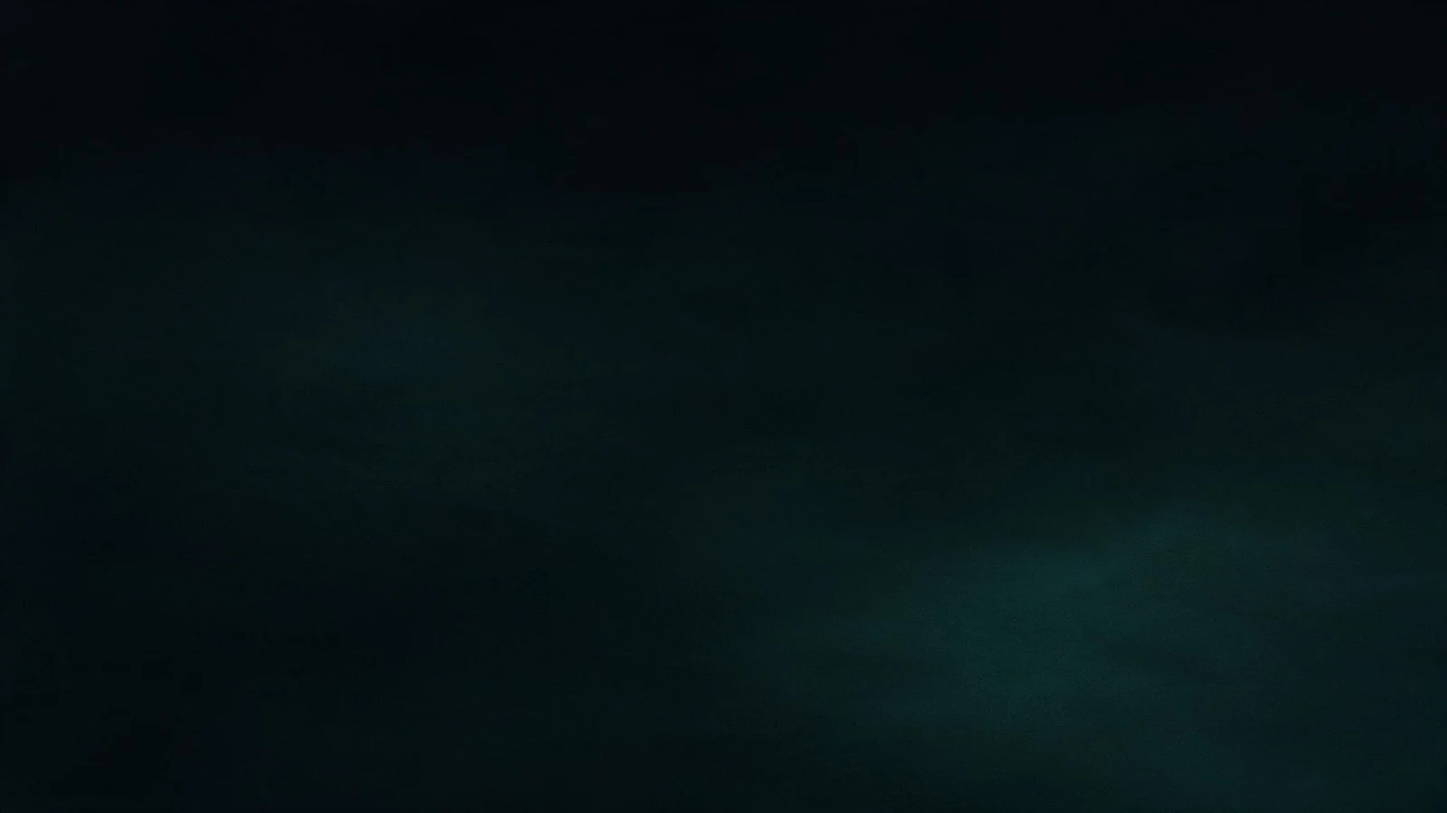
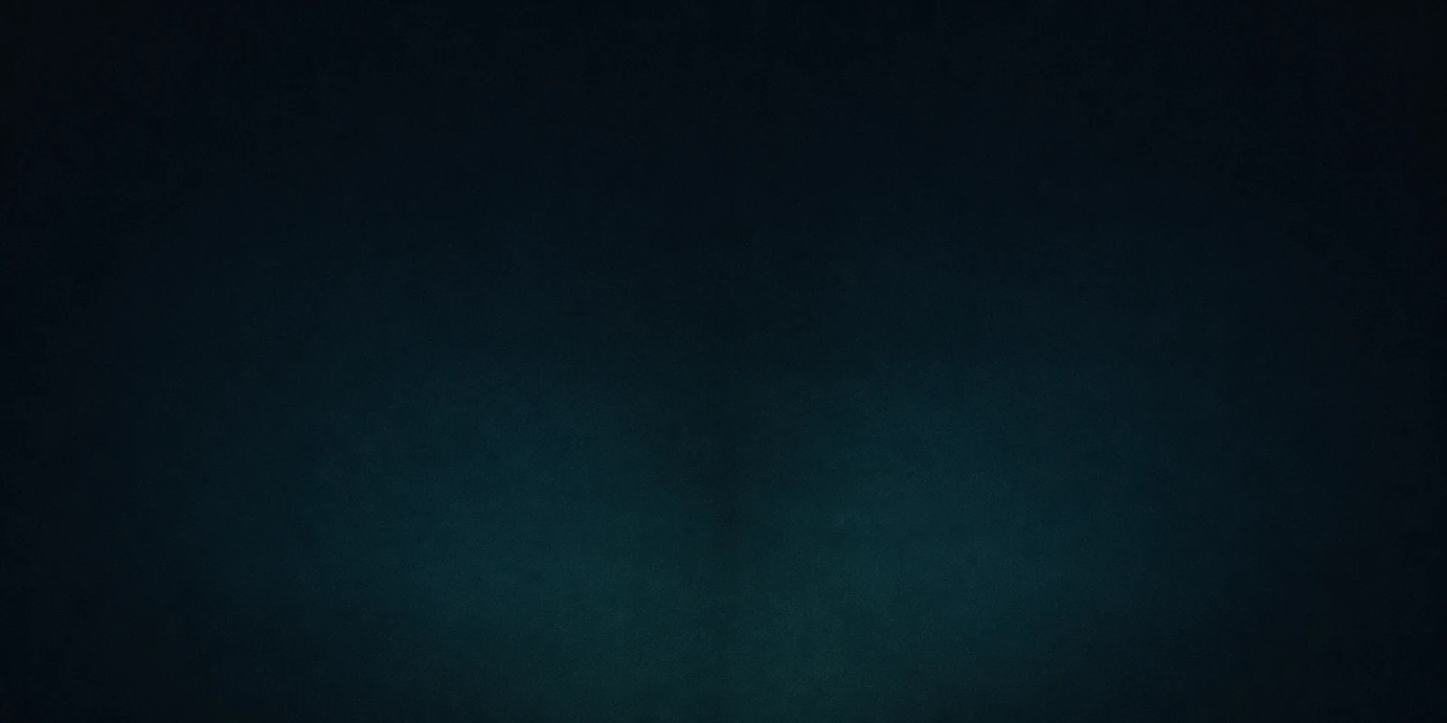
Pricing, second build: a line above the prices, a body and a footer in each card
The founder on the first build: "это ужасно". Three things were wrong. The
shared list was a full-measure white bar under three white cards, which is
the leftover space between two things with a border drawn round it: it is a
line above the prices now, which is also the order a person reads in. The
badge stacked above the yearly price pushed that figure 31px below the two
it is compared with: the card is three rows and two columns now, a price
with its badge beside it. And the growing sentence left 120px of nothing in
the middle of two cards: every card is a body and a footer with a divider
between, and all three dividers land on one line.

The picture was replaced with a symmetrical one. The first pooled its haze
in a corner and, cropped by cover, read as a smudge at the edge rather than
as a decision.

Changed region(s): [[0.2188, 0.625, 0.5938, 1.0], [0.625, 0.5625, 0.6562, 0.625], [0.5625, 0.6875, 0.5938, 0.7188]]

diff --git a/design/kit/landing-plan.html b/design/kit/landing-plan.html
@@ -52,6 +52,7 @@
 
   <section class="kit-sec" id="what">
     <h2>What it is</h2>
+    <p class="note"><b>It was built twice on one day, and the second build is the one to read.</b> The first put the four included things in a full-measure card under the three prices and left the prices as they were. The founder, seeing it: "это ужасно". Three things were wrong and all three are named in Limits: the shared list was a white bar under three white cards holding four short phrases across 1800px, the badge stacked above the yearly price pushed that figure 31px below the two it is compared with, and the growing sentence left 120px of nothing in the middle of two cards. The list is a line above the prices now, the badge sits on the price's own line, and every card is a body and a footer with a divider between.</p>
     <p class="note"><b>Three identical lists is a block admitting that the comparison it is drawn as does not exist.</b> Each of the three cards carried "Everything in Tendd Pro" over History and trends, Advanced alerts, Full cancel guides and Export - the identical four, word for word, twelve list items and twelve ticks for four facts. This is not three plans: it is <b>one plan and three ways to pay for it</b>, which is what D4 locked and what the copy has said all along. The list is lifted out and stated once, under all three, where it belongs to all three. <a href="plan-option.html">The plan option</a> already made half of this argument at stage 07, about colour: twelve petrol ticks smeared the accent until the button stopped being the loudest thing on the screen. The other half is that twelve of anything for four facts is the same mistake in another currency.</p>
     <p class="note"><b>The band was centred in grey and not in colour.</b> <code>_wf.css</code> centres this section, heading, lead and all; the rollout kept the centring for the closing block and lost it here, so a left-aligned heading stood over a centred row of cards with a third of the band empty beside it. That is a desync, not a design, and the grey is the contract.</p>
     <p class="note"><b>And the band was white.</b> It is the one section on the page that asks for money and it stood on the same flat fill as the section above it. The founder, 2026-08-15: "может на фон какую ненавязчивую спокойную картинку сделать". It now carries a wash: a teal haze drifting across paper in the light theme, the same composition at dusk in the dark one.</p>
@@ -69,7 +70,8 @@
   <section class="kit-sec" id="limits">
     <h2>Limits</h2>
     <p class="note"><b>The wash is one band and nowhere else, and that is the whole discipline of it.</b> <code>--wash-pricing</code> is the one non-colour role in <code>tokens.css</code>. It is there rather than in this component for one mechanical reason: system rule 6 says a role lives in both themes or it does not exist, and a paint that reverses between a paper theme and an ink theme is exactly what that rule was written for. The alternative was a <code>[data-theme]</code> selector inside a component file, and there are <b>zero</b> of those in the 68 component files: the point of two token levels is that a component never asks which theme it is in.</p>
-    <p class="note"><b>Its strength is a measurement and not a taste.</b> The smallest ink standing on this band is <code>--text-muted</code> at 14px, so every pixel of the picture has to clear 4.5:1 against it. As generated it did not: the haze pooling low measured <b>2.75:1</b> under the closing line at seven of nine widths, and the lead dipped to 4.23:1 at 1920. The asset was lightened toward paper until its darkest pixel reads <b>4.62:1</b>, and the worst pair actually rendered is <b>4.89:1</b>, swept over nine widths in both themes. A stronger picture is available and it costs that line: it would have to move onto paper first, and that is the founder's call. The dark edition needed none of it, its ink being light and its ground dark: 7.74:1 at its worst pixel.</p>
+    <p class="note"><b>Its strength is a measurement and not a taste.</b> The smallest ink standing on this band is <code>--text-muted</code> at 14px, so every pixel of the picture has to clear 4.5:1 against it. Neither edition arrived clearing it: the first measured <b>2.75:1</b> under the closing line at seven of nine widths, the second 3.97:1. Each was lightened toward its own ground until it did. Today the light asset's darkest pixel reads <b>4.61:1</b> and the worst pair actually rendered is <b>4.55:1</b>, swept over nine widths in both themes; the dark asset's worst is 5.21:1. <b>That margin is thin and it is deliberate:</b> darkening this picture by any amount breaks the band, so a replacement asset re-runs the sweep before it ships. The other lever is the closing line, the one 14px muted line standing on the picture - move it onto paper and the ceiling lifts. That is the founder's call.</p>
+    <p class="note"><b>The picture is symmetrical, and that is the second version.</b> The first pooled its haze in one corner, and cropped by <code>cover</code> it read as a smudge at the right-hand edge rather than as a decision. The founder, seeing it on the page: "это ужасно". Its replacement is an even vertical wash, warm paper at the top settling into a pale mint low down, balanced left and right, so every crop at every width is the same picture.</p>
     <p class="note"><b>The path in the token is written from <code>components/</code> and that is a browser fact, not a preference.</b> A <code>url()</code> inside a custom property resolves against the stylesheet that <b>uses</b> the property, not the one that declares it: written as <code>assets/...</code> the token asked for <code>design/system/components/assets/</code> and returned 404, measured on the page before it was corrected. Every consumer of a token is one folder deep in <code>components/</code> or <code>patterns/</code>, so <code>../assets/</code> is the one path right from all of them. The asset itself sits at <code>design/system/assets/</code>, a shelf this change created: the system is liftable whole and now carries its own picture, 17KB light and 20KB dark.</p>
     <p class="note"><b>The count stays declared, and it is not the hard-coded count the fluid grid exists to remove.</b> <code>repeat(3, ...)</code> is right here because the block holds exactly three prices and D4 is why. Fluid would put four or five tracks across a wide window and leave two empty on the one block whose whole job is a choice between three named things. The row also takes the whole measure now, where it used to stop at <code>--container-page</code>: with the list lifted out, a card is a price, a sentence and a button, and at 780 across three that is 253px a card, at which both button labels wrapped inside the button. At the full wrap it is 373 and neither does. <b>Between the two points they still wrap,</b> and that is stated rather than hidden: counted as line boxes, both labels take two lines from the tablet point up to 940, the yearly one settles at 940 and the monthly at 980, and from 980 neither wraps. The clean number is a card of 275, which is a third width point, and rule 8 says a third is the founder's. Nothing renders wrong in the band between - the buttons stay level and no card grows past its neighbours.</p>
     <p class="note"><b>The band left <a href="landing-shell.html">the shell</a> rather than changing there.</b> Trust and Pricing were one rule, two sections on the surface fill. Pricing is now a fill plus a picture, which is no longer the same object - and the shell is imported after every organism, so a band rule left there could not be corrected from here at any specificity short of an argument.</p>

diff --git a/design/system/components/landing-plan.css b/design/system/components/landing-plan.css
@@ -131,25 +131,32 @@
   }
 }
 
-/* ---- what the plan includes, said once ------------------------------------
-   A card and not a caption: it is the base the three prices stand on, so it
-   takes the same paper, the same edge and the same radius they do, and the row
-   above it reads as three doors into one room.
+/* ---- what the plan includes, said once, ABOVE the prices ------------------
+   IT WAS A CARD UNTIL THE FOUNDER SAW IT ("это ужасно", 2026-08-15) AND IT WAS
+   THE WORST THING IN THE BLOCK. A full-measure white bar under three white
+   cards, holding four short phrases spread across 1800px, is not an object: it
+   is the leftover space between two things with a border drawn round it.
 
-   The four are a ROW and not a list, above the tablet point. A column of four
-   under three cards would be a fourth card; four across a band under them is a
-   line, and a line is what a shared fact looks like. */
+   It is a LINE now, and it moved above the prices, which is also the order a
+   person reads in: what this is, then what it costs. No paper, no edge, no
+   radius - the four things are said in the section's own voice, quietly and
+   centred, and the eyebrow above them is what names them.
+
+   No tick beside a line either. The label says "included", and an ornament that
+   repeats on every line adds nothing the label has not; twelve of them across
+   three cards is what this block just came out of. */
 .landing .lp-plan .plan-all {
-  margin: var(--space-0) var(--space-0) var(--space-24);
-  padding: var(--space-24);
-  border: 1px solid var(--line-container);
-  border-radius: var(--radius);
-  background: var(--bg-surface);
-}
+  margin: var(--space-0) var(--space-0) var(--space-32);
+}/* A WRAPPING ROW AND NOT A FOUR-COLUMN GRID. Four equal columns put "Export"
+   alone in the middle of a 300px track and read as a table of one-word rows.
+   A centred flex row with a gap lets the four sit as one line at the widths
+   that hold them, break into two lines where they do not, and stack on a
+   phone, with the words themselves setting the rhythm. */
 .landing .lp-plan .plan-all ul {
-  display: grid;
-  grid-template-columns: minmax(0, 1fr);
-  gap: var(--space-8);
+  display: flex;
+  flex-wrap: wrap;
+  justify-content: center;
+  gap: var(--space-8) var(--space-24);
   list-style: none;
   margin: var(--space-0);
   padding: var(--space-0);
@@ -158,11 +165,61 @@
   font-size: var(--type-body);
   color: var(--text-body);
 }
-@container (min-width: 47.5rem) {
-  .landing .lp-plan .plan-all ul {
-    grid-template-columns: repeat(4, minmax(0, 1fr));
-    gap: var(--space-16);
-  }
+
+/* ---- the card's body and its footer ---------------------------------------
+   THE HOLE WAS THE OTHER HALF OF "это ужасно", and it is worth being exact
+   about what caused it. plan-option.css gives the supporting sentence
+   `flex: 1 1 auto` so that three cards of unequal copy land their buttons on
+   one line; on Upgrade the list under the button absorbs what is left over, and
+   on the landing, with the list lifted out, there was nothing under the button
+   and the difference showed as 120px of nothing in the middle of two cards.
+
+   THE ANSWER IS A LINE AND NOT A RESHUFFLE. The sentence keeps the growing box
+   it needs and now ends in a divider, so every card is a BODY and a FOOTER: the
+   price and its sentence above the line, the action below it, and the line
+   itself lands at the same height in all three. The leftover space is inside a
+   bounded body instead of floating between two elements, which is the whole
+   difference between air and a hole. Nothing about the atom changes, and Upgrade
+   is untouched: this is the landing host declaring the shape of its own card.
+
+   AND THE BADGE MOVES TO THE PRICE'S OWN LINE, which is the second half of the
+   same repair. Stacked above the price it pushed the yearly card's figure 31px
+   below the other two - measured - so the three numbers a person is comparing
+   did not start on one line. A reserved empty slot in the other two cards would
+   have fixed the alignment by inventing a height; three rows and two columns fix
+   it by saying what the card is: a price with its badge beside it, a sentence,
+   and an action. Chipless cards leave column two empty and nothing shifts. */
+.landing .lp-plan .plan-opt {
+  display: grid;
+  grid-template-columns: minmax(0, 1fr) auto;
+  grid-template-rows: auto 1fr auto;
+  padding: var(--space-24);
+}
+.landing .lp-plan .plan-opt .chip {
+  grid-column: 2;
+  grid-row: 1;
+  justify-self: end;
+  align-self: start;
+  margin: var(--space-0);
+}
+.landing .lp-plan .plan-opt .amt { grid-column: 1; grid-row: 1; }
+.landing .lp-plan .plan-opt > .muted {
+  grid-column: 1 / -1;
+  grid-row: 2;
+  margin-bottom: var(--space-16);
+  padding-bottom: var(--space-16);
+  border-bottom: 1px solid var(--line-divider);
+}
+.landing .lp-plan .plan-opt .btn,
+.landing .lp-plan .plan-opt .q { grid-column: 1 / -1; grid-row: 3; }
+/* the quiet line keeps the 44px floor plan-option.css gives it, and under a
+   divider that floor finally does what it was written for: it holds the third
+   card's footer to the height of the two real buttons beside it, so all three
+   dividers land on one line. Centred in that slot, because a button's label is */
+.landing .lp-plan .plan-opt .q {
+  display: flex;
+  align-items: center;
+  padding: var(--space-0);
 }
 
 /* ---- the entrance ---------------------------------------------------------

diff --git a/design/system/tokens.css b/design/system/tokens.css
@@ -677,17 +677,26 @@
      SCOPE, and it is the decision: ONE band. Not the page, not the trust band,
      not a card. A texture that spreads stops being quiet, and D-Concept's ground
      is paper.
+     IT IS SYMMETRICAL, AND THAT IS THE SECOND VERSION. The first picture pooled
+     its haze in one corner, and cropped by `cover` it read as a smudge at the
+     right-hand edge rather than as a decision. The founder, seeing it on the
+     page: "это ужасно". Its replacement is an even vertical wash, warm paper at
+     the top settling into a pale mint low down, balanced left and right, so
+     every crop of it at every width is the same picture.
      ITS STRENGTH IS A MEASUREMENT AND NOT A TASTE, and this is the number to
      hold on to. The smallest ink that stands on this band is --text-muted at
-     14px, so every pixel of the picture has to clear 4.5:1 against it. As
-     generated it did not: the haze pooling low measured 2.75:1 under the closing
-     line at seven of nine widths, and the lead dipped to 4.23:1 at 1920. The
-     asset was lightened toward paper until its darkest pixel reads 4.62:1, and
-     the worst pair actually rendered is 4.89:1, swept over nine widths in both
-     themes. A stronger picture is available and it costs that line: it would
-     have to move onto paper first, and that is the founder's call and not this
-     file's. The dark edition needed none of it - its ink is light and its ground
-     is dark, so the two never converge: 7.74:1 at its worst pixel.
+     14px, so every pixel of the picture has to clear 4.5:1 against it. Neither
+     edition arrived clearing it: the first measured 2.75:1 under the closing
+     line at seven of nine widths, the second 3.97:1. Each was lightened toward
+     its own ground until it did. Today: the light asset's darkest pixel reads
+     4.61:1 and the worst pair actually RENDERED is 4.55:1, swept over nine
+     widths in both themes; the dark asset's worst is 5.21:1, its ink being light
+     and its ground dark.
+     4.55 IS A THIN MARGIN AND IT IS DELIBERATE. Darkening this picture by any
+     amount breaks the band, and the sweep is the only thing that will say so: a
+     replacement asset re-runs it before it ships. The other lever is the closing
+     line, which is the one 14px muted line standing on the picture; move it onto
+     paper and the ceiling lifts. That is the founder's call and not this file's.
      Today: 1 var(), 1 file */
   --wash-pricing: url("../assets/plan-wash-light.webp");
 

diff --git a/wireframes/_wf.css b/wireframes/_wf.css
@@ -1230,13 +1230,23 @@ details.wfp > summary::before { content: "\2261  "; color: var(--faint); }
    the comparison it is drawn as does not exist. This is one plan and three ways
    to pay for it. No tick beside a line here either: the label says "included". */
 .lp-plan .plans { margin: 0 0 14px; text-align: left; }
-.lp-plan .plan-all { margin: 0 0 18px; padding: 16px; border: 1px solid var(--line); background: var(--frame); }
+/* the included things: a LINE above the prices, not a bar under them. It was a
+   full-measure box until the founder saw it ("это ужасно", 2026-08-15): a white
+   bar under three white cards holding four short phrases is the leftover space
+   between two things with a border drawn round it. It also moved above the
+   prices, which is the order a person reads in: what this is, then what it
+   costs. */
+.lp-plan .plan-all { margin: 0 0 22px; }
 .lp-plan .plan-all .k { display: block; margin: 0 0 8px; font-size: 11px; text-transform: uppercase; letter-spacing: 0.06em; color: var(--soft); }
-.lp-plan .plan-all ul { list-style: none; display: grid; grid-template-columns: 1fr; gap: 8px; margin: 0; padding: 0; }
+.lp-plan .plan-all ul { list-style: none; display: flex; flex-wrap: wrap; justify-content: center; gap: 8px 22px; margin: 0; padding: 0; }
 .lp-plan .plan-all li { font-size: 14px; color: var(--mid); }
+/* the card's body and its footer: the sentence ends in a divider, so the space
+   the growing box absorbs sits inside a bounded body instead of floating
+   between the text and the button */
+.lp-plan .plan-opt .p { border-bottom: 1px solid var(--line2); padding-bottom: 14px; margin-bottom: 14px; }
+.lp-plan .plan-opt .q { min-height: 0; padding: 0; }
 @media (min-width: 760px) {
   .lp-plan .plans { grid-template-columns: repeat(3, 1fr); gap: 18px; }
-  .lp-plan .plan-all ul { grid-template-columns: repeat(4, 1fr); gap: 14px; }
 }
 
 /* The step vignettes, by the founder's decision of 2026-08-15 (see the comment

diff --git a/design/index.html b/design/index.html
@@ -423,6 +423,18 @@
     <div class="lp-wrap">
       <h2 >Simple, honest pricing</h2>
       <p class="muted lead">The whole calm view is free. Tendd Pro adds history, trends and advanced alerts.</p>
+      <!-- The one list, for all three prices. No tick beside a line: the label
+           above them is what says "included", and twelve ornaments for four
+           facts is the mistake this block just came out of. -->
+      <div class="plan-all">
+        <span class="k">Everything in Tendd Pro</span>
+        <ul>
+          <li>History and trends</li>
+          <li>Advanced alerts</li>
+          <li>Full cancel guides</li>
+          <li>Export</li>
+        </ul>
+      </div>
       <!-- The two Pro prices as the same card node 5.13 uses, yearly first with
            the monthly equivalent (D4). Not a comparison table: a table has to
            invent something Free lacks, and under D-Free it lacks nothing you
@@ -445,18 +457,7 @@
           <span class="q">Not on sale yet. We are still working out the price.</span>
         </div>
       </div>
-      <!-- The one list, for all three prices. No tick beside a line: the label
-           above them is what says "included", and twelve ornaments for four
-           facts is the mistake this block just came out of. -->
-      <div class="plan-all">
-        <span class="k">Everything in Tendd Pro</span>
-        <ul>
-          <li>History and trends</li>
-          <li>Advanced alerts</li>
-          <li>Full cancel guides</li>
-          <li>Export</li>
-        </ul>
-      </div>
+
       <p class="muted">No cap on subscriptions and no cap on banks in Free. Cancelling is free, always.</p>
     </div>
   </section>

diff --git a/wireframes/index.html b/wireframes/index.html
@@ -366,6 +366,16 @@
     <div class="lp-wrap">
       <h2 class="lp-h2">Simple, honest pricing</h2>
       <p class="planline">The whole calm view is free. Tendd Pro adds history, trends and advanced alerts.</p>
+      <!-- The one list, for all three prices. -->
+      <div class="plan-all">
+        <span class="k">Everything in Tendd Pro</span>
+        <ul>
+          <li>History and trends</li>
+          <li>Advanced alerts</li>
+          <li>Full cancel guides</li>
+          <li>Export</li>
+        </ul>
+      </div>
       <!-- The two Pro prices as the same card node 5.13 uses, yearly first with
            the monthly equivalent (D4). Not a comparison table: a table has to
            invent something Free lacks, and under D-Free it lacks nothing you
@@ -388,16 +398,7 @@
           <span class="q">Not on sale yet. We are still working out the price.</span>
         </div>
       </div>
-      <!-- The one list, for all three prices. -->
-      <div class="plan-all">
-        <span class="k">Everything in Tendd Pro</span>
-        <ul>
-          <li>History and trends</li>
-          <li>Advanced alerts</li>
-          <li>Full cancel guides</li>
-          <li>Export</li>
-        </ul>
-      </div>
+
       <p class="planmicro">No cap on subscriptions and no cap on banks in Free. Cancelling is free, always.</p>
     </div>
   </section>

diff --git a/docs/decisions.md b/docs/decisions.md
@@ -24,12 +24,14 @@ instead of one, so the band has a ground before the picture loads.
 ground is paper and stays paper: a texture that spreads stops being quiet.
 
 **Its strength is a measurement and not a taste.** The smallest ink standing on that band is
-`--text-muted` at 14px, so every pixel of the picture has to clear 4.5:1 against it. As generated
-it did not: the haze pooling low measured **2.75:1** under the closing line at seven of nine
-widths, and the lead dipped to 4.23:1 at 1920. The asset was lightened toward paper until its
-darkest pixel reads 4.62:1, and the worst pair actually rendered is 4.89:1. A stronger picture is
-available and it costs that line: it would have to move onto paper first, and that is a founder's
-call. The dark edition needed none of it, its ink being light and its ground dark: 7.74:1.
+`--text-muted` at 14px, so every pixel of the picture has to clear 4.5:1 against it. Neither
+edition arrived clearing it: the first measured **2.75:1** under the closing line at seven of nine
+widths, the second 3.97:1. Each was lightened toward its own ground until it did. Today the light
+asset's darkest pixel reads 4.61:1 and the worst pair actually rendered is **4.55:1**, swept over
+nine widths in both themes; the dark asset's worst is 5.21:1. That margin is thin on purpose:
+darkening this picture by any amount breaks the band, so a replacement asset re-runs the sweep
+before it ships. The other lever is the closing line, the one 14px muted line standing on the
+picture - move it onto paper and the ceiling lifts, and that is a founder's call.
 
 **Who generated it, and how to replace it.** Codex cannot generate images; it is a coding agent
 and it is read-only in this repository. The two assets were generated from a written brief with
@@ -40,9 +42,33 @@ same 4.5:1 sweep before it ships.
 
 **The same step fixed two older things in that block.** The four included lines were printed
 three times, once per card - twelve list items and twelve ticks for four facts - so they are now
-stated ONCE under all three prices: this is one plan and three ways to pay for it, which is what
-D4 locked. And the block was centred in grey and left-aligned in colour since the rollout, which
-is a desync and not a design; the colour follows the grey again.
+stated ONCE: this is one plan and three ways to pay for it, which is what D4 locked. And the block
+was centred in grey and left-aligned in colour since the rollout, which is a desync and not a
+design; the colour follows the grey again.
+
+**It was built twice on the same day, and the second build is the block.** The first put the four
+included things in a full-measure card UNDER the three prices and left the prices as they were.
+The founder, seeing it on the page: "это ужасно". Three things were wrong:
+
+- **The shared list was a bar.** A full-measure white card under three white cards, holding four
+  short phrases spread across 1800px, is not an object: it is the leftover space between two
+  things with a border drawn round it. It is a LINE now, and it moved ABOVE the prices, which is
+  also the order a person reads in: what this is, then what it costs.
+- **The badge pushed the yearly price out of line.** Stacked above the figure it put it 31px
+  below the two it is being compared with, measured. The card is three rows and two columns now:
+  a price with its badge beside it, a sentence, an action. Chipless cards leave column two empty
+  and nothing shifts.
+- **The growing sentence left a hole.** `plan-option.css` gives that sentence `flex: 1 1 auto` so
+  three cards of unequal copy land their buttons on one line; on Upgrade the list under the button
+  absorbs the difference, and here, with the list lifted out, it showed as 120px of nothing in the
+  middle of two cards. Every card is a BODY and a FOOTER now, with a divider between: the leftover
+  space sits inside a bounded body instead of floating between two elements, which is the whole
+  difference between air and a hole. All three dividers land on one line, measured.
+
+**And the picture was replaced with a symmetrical one.** The first pooled its haze in one corner
+and, cropped by `cover`, read as a smudge at the right-hand edge rather than as a decision. Its
+replacement is an even vertical wash, warm paper at the top settling into a pale mint low down,
+balanced left and right, so every crop at every width is the same picture.
 
 New organism `landing-plan`, all five things, and the landing's plan row moved into it from
 `grid.css`, where its `@media` became a `@container`. `plan-option`'s `.incl` slot is an

diff --git a/DESIGN.md b/DESIGN.md
@@ -307,8 +307,10 @@ it does not exist, and a picture that reverses between a paper theme and an ink 
 that case. It is read UNDER a `background-color` and never instead of one, so a band has a ground
 before the picture loads. Its strength is a measurement, not a taste: the smallest ink standing on
 that band is `--text-muted` at 14px, so every pixel of the picture clears **4.5:1** against it -
-4.62:1 at the asset's darkest pixel, 4.89:1 at the worst pair actually rendered. One band, and
-nowhere else: a texture that spreads stops being quiet.
+4.61:1 at the light asset's darkest pixel, **4.55:1** at the worst pair actually rendered, 5.21:1
+in the dark theme. That margin is thin on purpose: darkening the picture by any amount breaks the
+band, and a replacement asset re-runs the sweep before it ships. One band, and nowhere else: a
+texture that spreads stops being quiet.
 
 The four state tokens are in that table because a state is a token and not a style: nothing
 inside a `:hover` or a `:focus-visible` block is a hex or a number anywhere in this system, which
